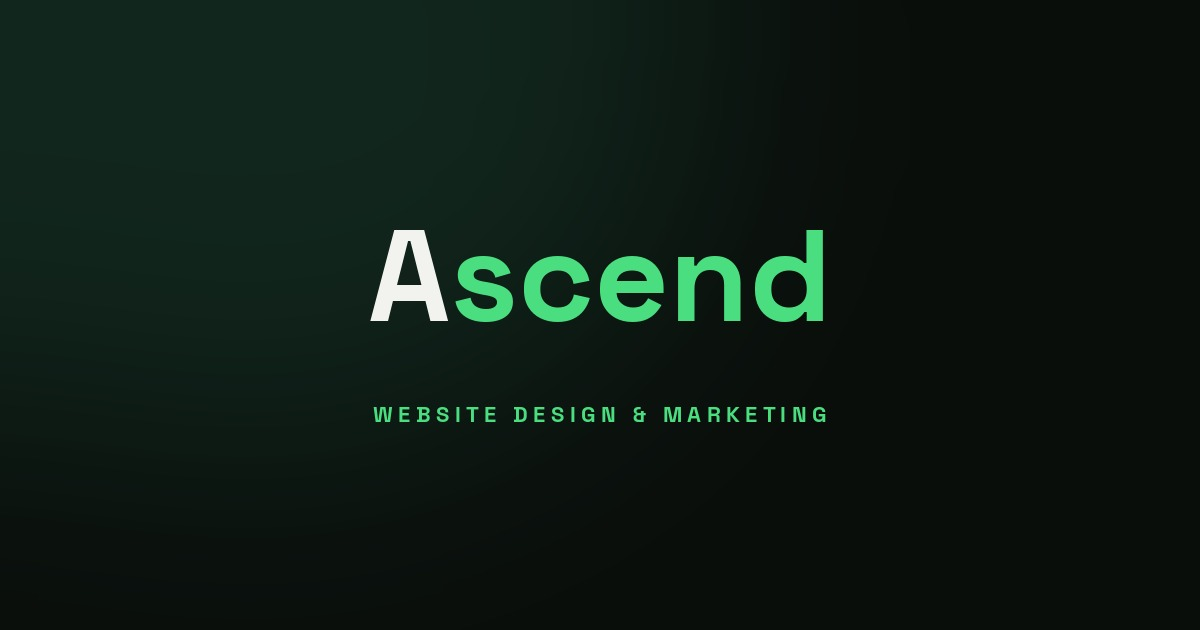
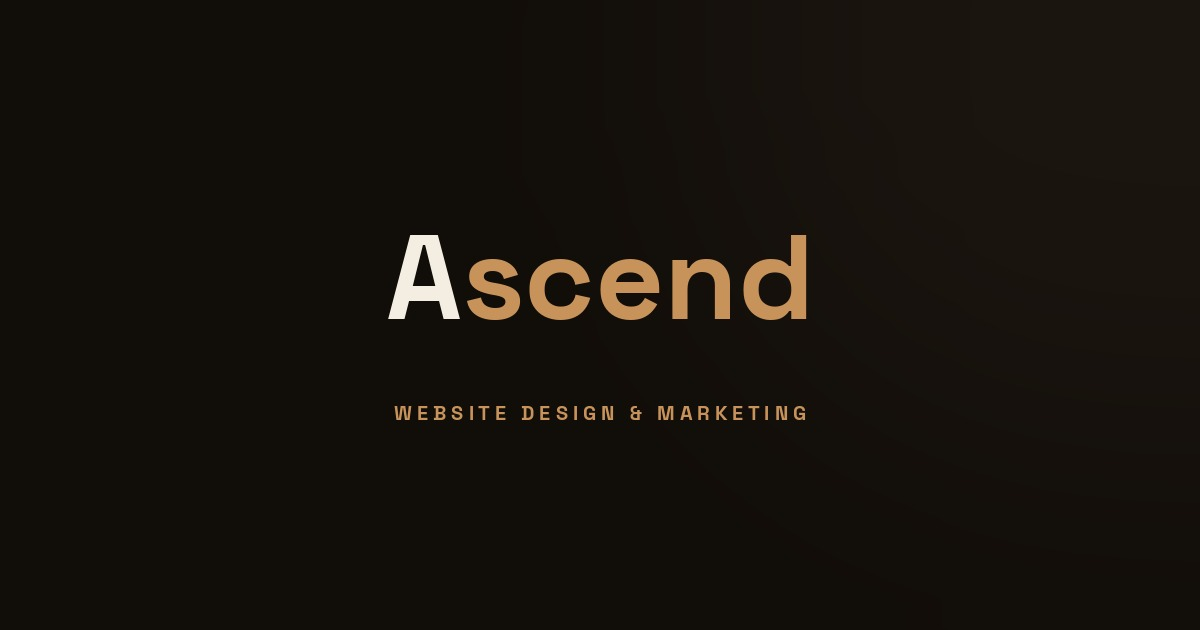
Add files via upload

Changed region(s): [[0.3083, 0.3619, 0.7092, 0.5127], [0.3083, 0.6333, 0.7092, 0.6937]]

diff --git a/shared.css b/shared.css
@@ -1,12 +1,14 @@
   :root{
-    --black:#0a0e0b;
-    --forest:#173a2c;
-    --forest-2:#1f4d3a;
-    --green:#4ade80;
-    --green-dim:#2e6b4c;
-    --ivory:#f2f3ee;
-    --muted:#8fa298;
-    --line:#22322a;
+    --black:#110d09;
+    --forest:#241d15;
+    --forest-2:#2e2419;
+    --green:#c8935a;
+    --green-dim:#8a6640;
+    --ivory:#f4ede2;
+    --muted:#998c78;
+    --line:#2b2318;
+    --platinum:#c9cdd3;
+    --platinum-dim:#83878d;
   }
   *{box-sizing:border-box; margin:0; padding:0;}
   html{scroll-behavior:smooth;}
@@ -158,10 +160,33 @@
   }
   .hero-bg{
     position:absolute; inset:0;
-    background:
-      radial-gradient(circle at 15% 20%, rgba(74,222,128,.09), transparent 45%),
-      radial-gradient(circle at 85% 75%, rgba(23,58,44,.5), transparent 50%);
+    overflow:hidden;
     pointer-events:none;
+  }
+  .hero-bg .panel{
+    position:absolute;
+    border:1px solid rgba(201,205,211,.1);
+  }
+  .hero-bg .p1{
+    width:34vw; height:150vh; right:-4vw; top:-25vh; transform:rotate(8deg);
+    background:linear-gradient(160deg, rgba(201,205,211,.06), rgba(44,36,25,.03) 55%);
+  }
+  .hero-bg .p2{
+    width:18vw; height:160vh; right:10vw; top:-40vh; transform:rotate(8deg);
+    background:linear-gradient(160deg, rgba(201,205,211,.03), transparent 60%);
+    border-left:1px solid rgba(201,205,211,.16); border-right:none; border-top:none; border-bottom:none;
+  }
+  .hero-bg .p3{
+    width:1px; height:170vh; right:30vw; top:-45vh; transform:rotate(8deg);
+    background:linear-gradient(180deg, transparent, rgba(200,147,90,.4), transparent);
+    border:none;
+  }
+  .hero-bg .sheen{
+    position:absolute;
+    width:55vw; height:55vw;
+    right:-12vw; top:-8vw;
+    background:radial-gradient(circle, rgba(201,205,211,.05), transparent 65%);
+    border:none;
   }
   .eyebrow{
     font-size:12px;
@@ -298,7 +323,7 @@
   .status.live{background:rgba(74,222,128,.12); color:var(--green);}
   .status.inactive{background:rgba(143,162,152,.12); color:var(--muted);}
   .p-card{
-    background:linear-gradient(160deg,#0f1712,#0a0e0b);
+    background:linear-gradient(160deg,var(--forest-2),var(--black));
     border:1px solid var(--line);
     border-radius:18px;
     padding:30px;
@@ -307,7 +332,7 @@
   .p-card .thumb{
     height:160px;
     border-radius:12px;
-    background:linear-gradient(135deg,var(--forest),#0a0e0b 70%);
+    background:linear-gradient(135deg,var(--forest),var(--black) 70%);
     border:1px solid var(--line);
     display:flex; align-items:center; justify-content:center;
     font-family:'Space Grotesk',sans-serif;
@@ -429,7 +454,7 @@
     gap:16px;
   }
   .testi-card{
-    background:linear-gradient(160deg,#0f1712,#0a0e0b);
+    background:linear-gradient(160deg,var(--forest-2),var(--black));
     border:1px solid var(--line);
     border-radius:16px;
     padding:26px 24px;
@@ -574,12 +599,12 @@
      LIGHT CONTENT SECTIONS (dark hero, light body)
      ============================================ */
   :root{
-    --lbg:#faf9f6;
-    --lcard:#ffffff;
-    --ltext:#14171f;
-    --lmuted:#6b6f63;
-    --lline:#e5e2d9;
-    --laccent:#1f7a4d;
+    --lbg:#f6f0e6;
+    --lcard:#fffcf7;
+    --ltext:#1c1710;
+    --lmuted:#7d715d;
+    --lline:#e7dcc7;
+    --laccent:#8a6335;
   }
 
   section{
@@ -595,13 +620,10 @@
     color:var(--laccent);
   }
 
-  /* Rounded "spill" transition where dark hero meets light content */
+  /* Transition where dark hero meets content: simple, no gimmick */
   header.hero + section,
   header.page-header + section{
-    border-radius:28px 28px 0 0;
-    margin-top:-28px;
-    position:relative;
-    z-index:3;
+    border-top:1px solid var(--lline);
   }
 
   /* Card surfaces that were designed for dark backgrounds need explicit light versions */

diff --git a/index.html b/index.html
@@ -69,7 +69,12 @@
 </div>
 
 <header class="hero">
-  <div class="hero-bg"></div>
+  <div class="hero-bg">
+    <div class="panel p1"></div>
+    <div class="panel p2"></div>
+    <div class="panel p3"></div>
+    <div class="sheen"></div>
+  </div>
   <div class="wrap">
     <div class="eyebrow">Website Design &amp; Marketing</div>
     <h1 class="headline">Build a brand that <em>ascends.</em></h1>

diff --git a/portfolio.html b/portfolio.html
@@ -34,7 +34,7 @@
   .case .thumb{
     height:220px;
     border-radius:14px;
-    background:linear-gradient(135deg,var(--forest),#0a0e0b 70%);
+    background:linear-gradient(135deg,var(--forest),var(--black) 70%);
     border:1px solid var(--line);
     display:flex; align-items:center; justify-content:center;
     font-family:'Space Grotesk',sans-serif;
